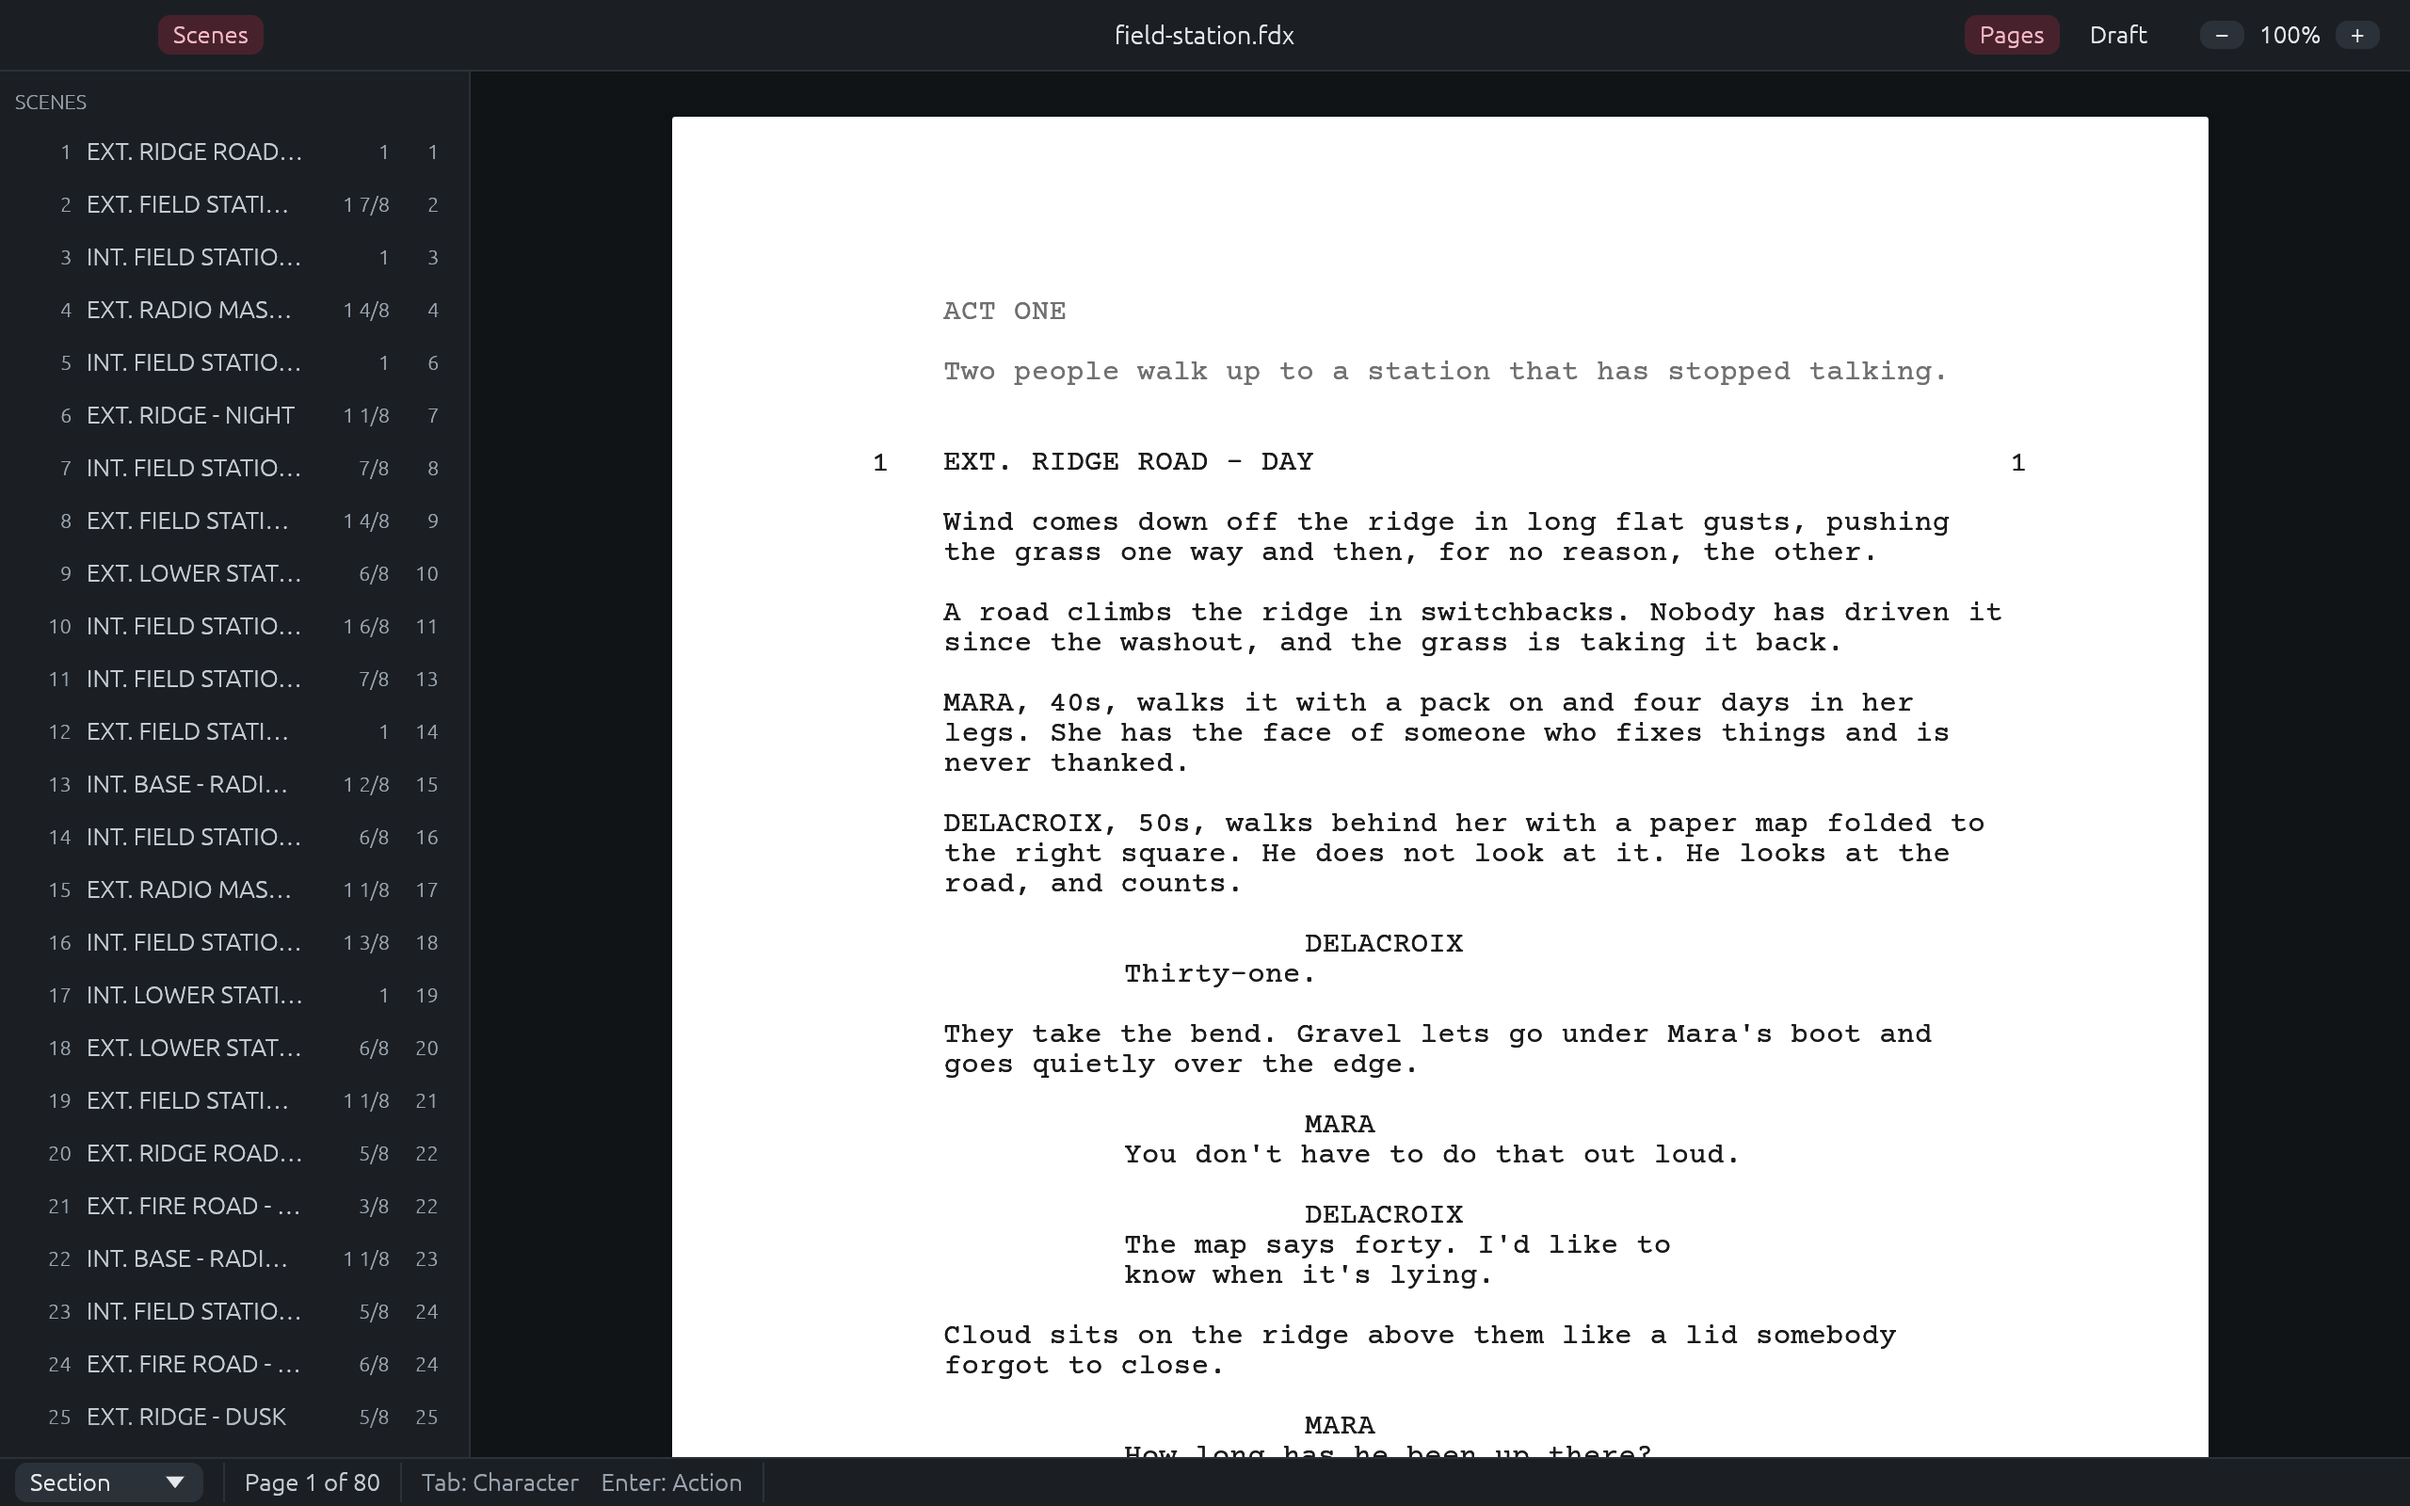
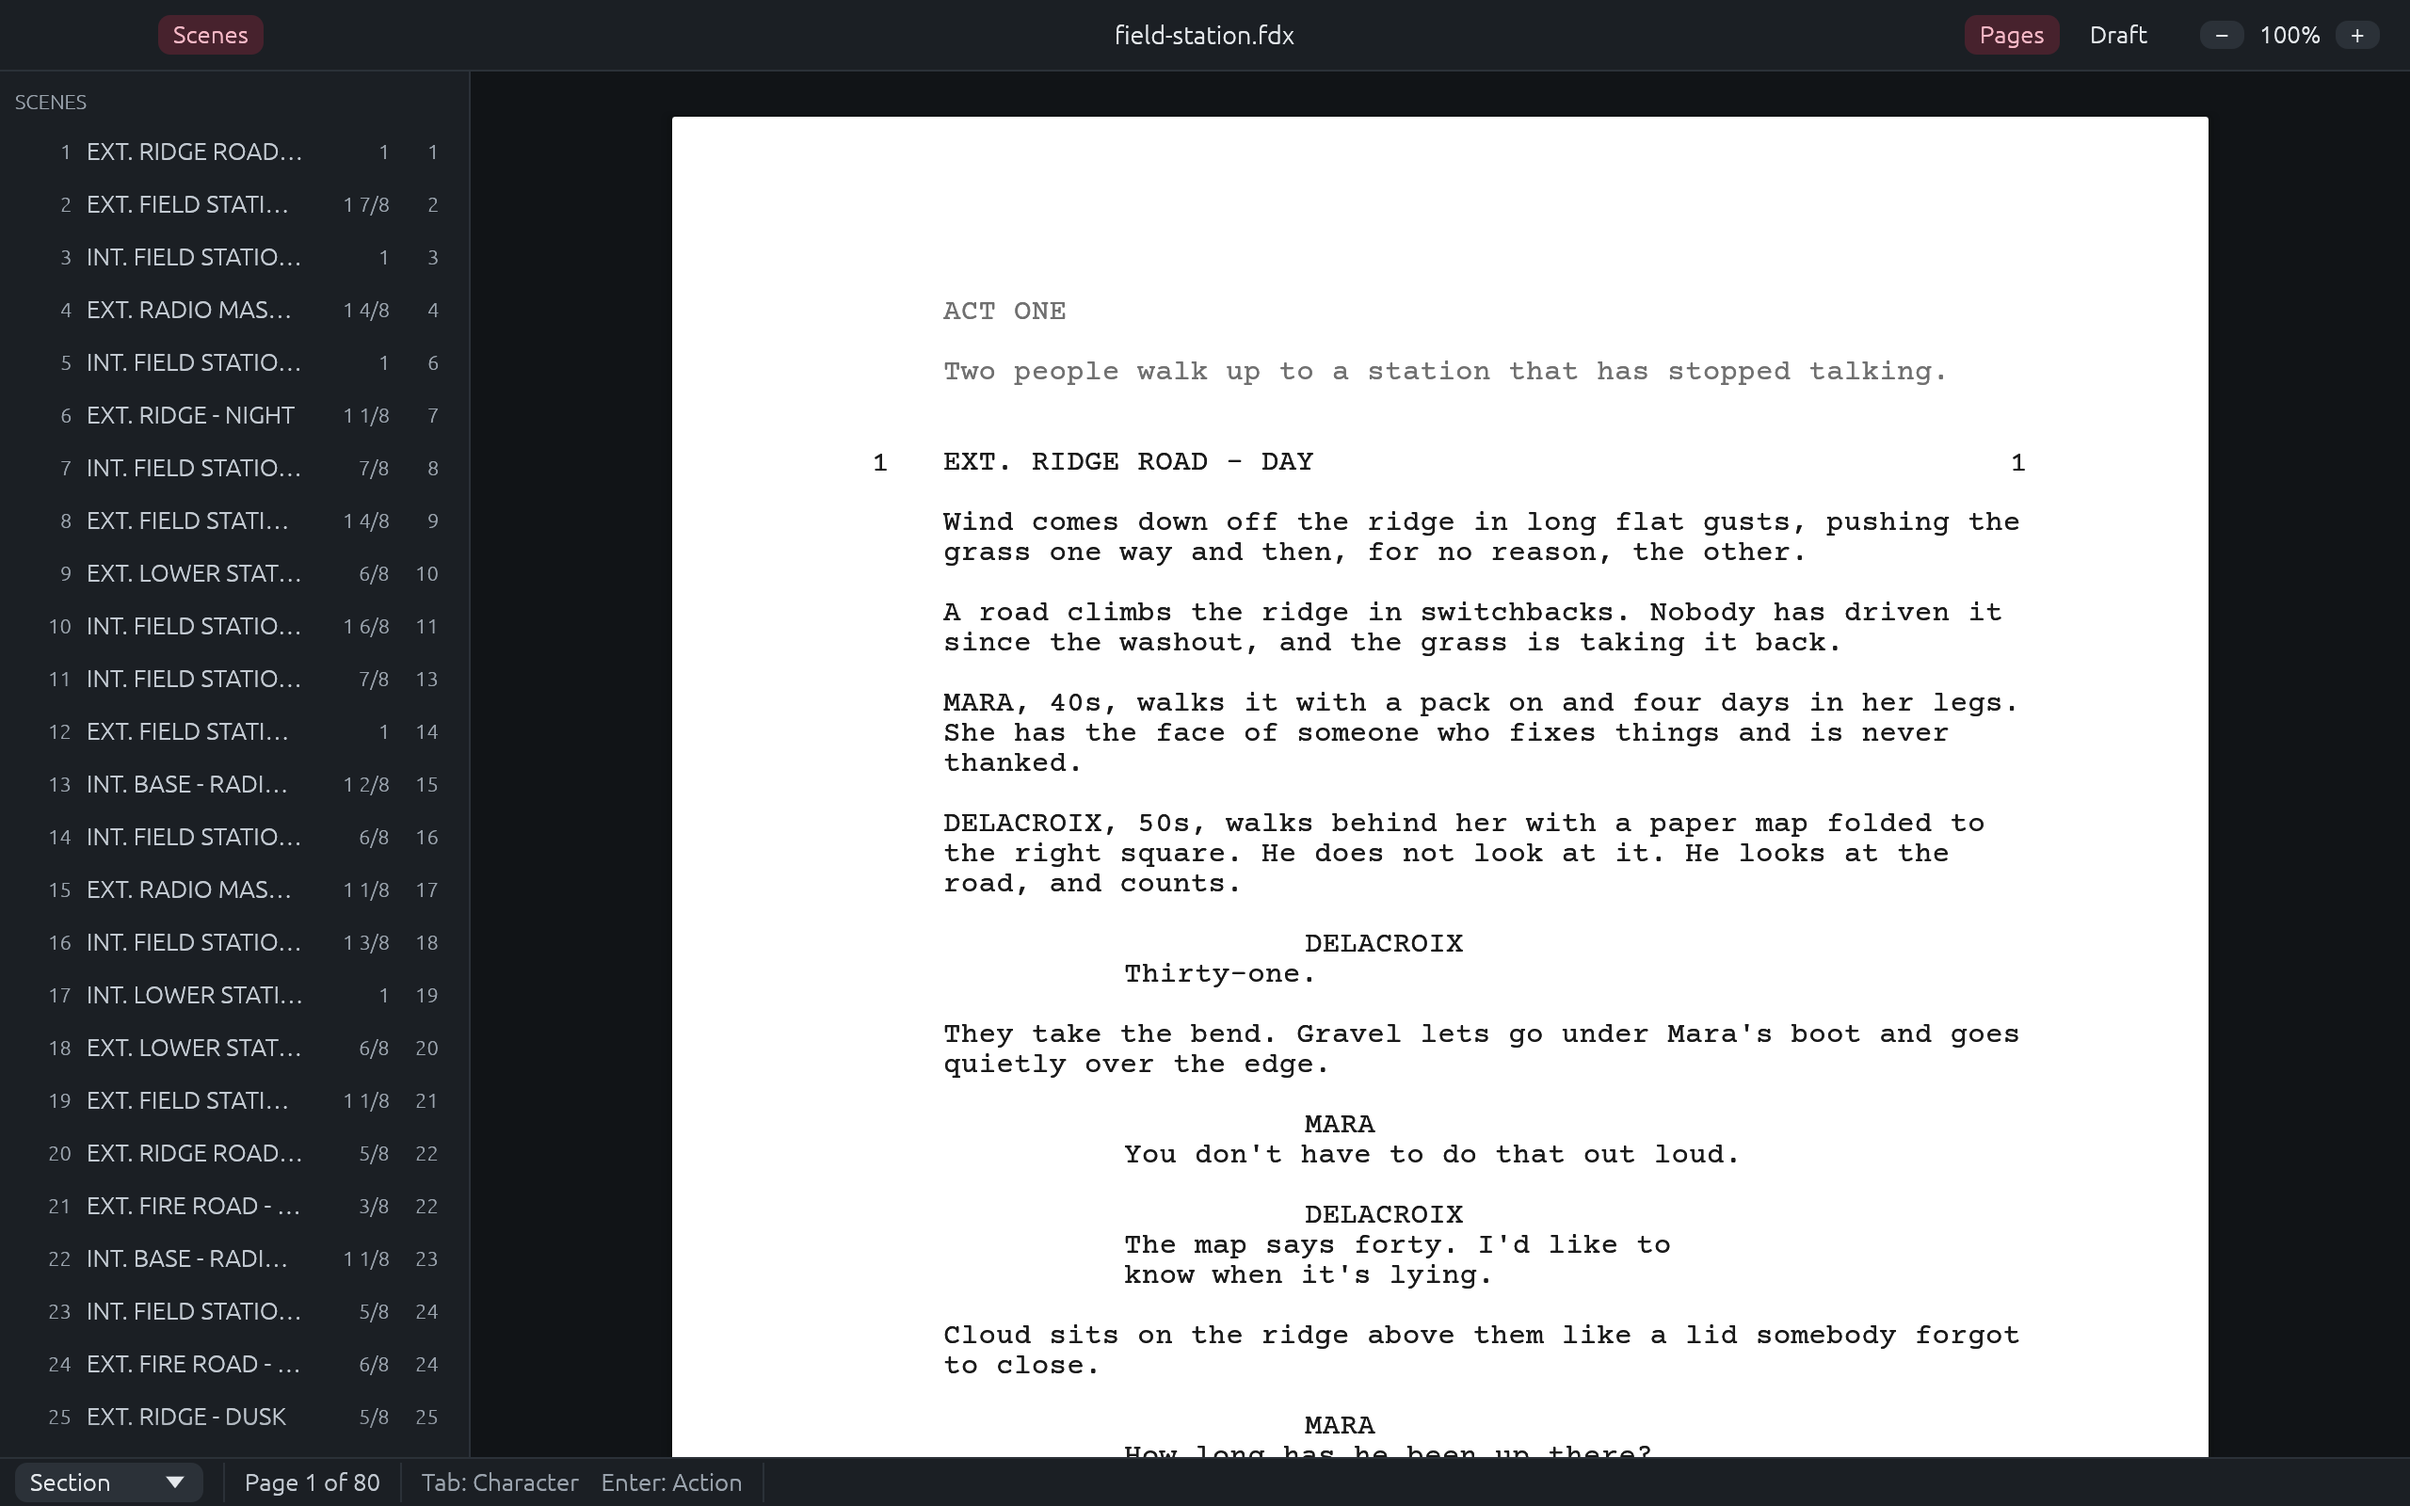
Release 0.8.0: the page as it prints, and safer updates
Version 0.8.0: the editor draws its own text (lines break where they
print, styles without their marks, capitals by display, double-spaced
dialogue on screen), Page view carries a split speech on to the next
sheet, and updates are checked more strictly. The changelog gets its
0.8.0 heading and the notes are written. The README and site pictures
were retaken offscreen and show the new editor.

diff --git a/docs/releases/0.8.0.md b/docs/releases/0.8.0.md
@@ -1,0 +1,48 @@
+# Method Storyteller 0.8.0
+
+The editor shows the page as it prints: lines break where they print, styles show without
+their marks, and a speech that runs past the page carries on to the next sheet.
+
+## The page as it prints
+
+- **Lines break where they print.** The editor now lays out the script itself, with the same
+  rules as the printed page, so what you see on screen is what the page holds.
+- **Styles without the marks.** Bold, italic and underline show as styles, with no asterisks or
+  underscores around them. **View > Show Formatting Marks** brings the marks back, faint, for
+  anyone who types them by hand. A `*` or `_` you type stays that character.
+- **Page view carries a split speech on.** When the page breaks inside a speech or a long
+  paragraph, the rest starts at the top of the next sheet, with (MORE) and the continued name
+  shown faint where they print.
+- **Capitals by display.** In a multi-camera script, action keeps the casing you type and is
+  shown and printed in capitals. Turn the setting off and your casing is still there.
+- **Double-spaced dialogue looks double-spaced** on screen, as it prints.
+
+## Safer updates
+
+- **An update must be signed as this app is.** On a Mac, a downloaded update is installed only
+  if its code signature matches the copy you are running.
+- **No going backwards.** A version older than one the app has already accepted is refused.
+- **Updates that ask for an administrator's password** now leave the app owned by the system,
+  as it was installed.
+- **Damaged files are refused cleanly.** Every kind of file the app opens was tried in
+  thousands of damaged forms; each one opens or says why.
+
+## Fixed
+
+- **A note on the title page** is saved to `.fdx` as a note, so it no longer prints in other
+  apps, and it comes back when the file is opened again.
+
+## For developers
+
+- The control channel (`--control`) asks for the token each launch prints.
+
+## Not there yet
+
+- Pages locked in an `.fdx` file are kept and saved back, but print as unlocked until their
+  positions are read reliably.
+- Scene CONTINUED at page breaks is not offered yet.
+- On Windows and Linux, download each new version from the website.
+
+## Who helped
+
+- Method Production Suite Team and the Method Storyteller contributors.

diff --git a/CHANGELOG.md b/CHANGELOG.md
@@ -5,10 +5,31 @@ for its own version in Help > What's New, once after an update.
 
 ## Unreleased
 
+## 0.8.0
+
+### Changed
+
+- The editor lays out and draws the script itself. Lines on screen break where they break on
+  the printed page, and double-spaced dialogue is double-spaced on screen too.
+- Bold, italic and underline show as styles, without the asterisks and underscores around them.
+  View > Show Formatting Marks shows the marks again, faint. A `*` or `_` you type is kept as
+  that character.
+- In a script whose settings print a type in capitals (a multi-camera script's action), the text
+  keeps the casing you type and is shown and printed in capitals. Saving it as Fountain, which
+  cannot record that setting, writes it in capitals.
+- Page view: a paragraph or speech that the page breaks inside now carries on at the top of the
+  next sheet, with (MORE) and the continued name shown faint where they print. Draft view marks
+  the page break between its lines.
+- Updates on a Mac are checked more strictly: an update is installed only if its code signature
+  matches this copy of the app, a version older than one already accepted is refused, and an
+  update installed with an administrator's password leaves the app owned by the system as before.
+
 ### Fixed
 
 - A note on the title page (`[[like this]]`) is saved to `.fdx` as a note, so it no longer
   prints in other apps, and it comes back when the file is opened again.
+- A damaged `.mstory`, `.fadein` or `.highland` file is refused cleanly on every system.
+- For developers: the control channel (`--control`) asks for the token each launch prints.
 
 ## 0.7.0
 

diff --git a/docs/ROADMAP.md b/docs/ROADMAP.md
@@ -208,13 +208,13 @@ says otherwise.
   bookmarks, Show Outline, autocomplete lists, `.highland` import and the faster editor. The
   release workflow runs no tests, so its Windows tests came from the full build on the same
   commit (all three systems green). Nothing waiting.
-- **The next release (0.8.0):** on main since 0.7.0: the editor draws its own text (markup
-  hidden, capitals by display, lines wrap where they print), Page view continuing a split speech,
-  the control channel token, the hardened updater (code signature check before a Mac update is
-  swapped in, and no offer below the newest accepted), and signing from the protected `release`
-  environment (rehearsal green, 2026-11-20). **Held until the updater's administrator step has
-  been run once by hand against a real signed bundle** (MReview's condition; it needs the owner's
-  password and screen, and MOrg is arranging it). Then a go-ahead to tag.
+- **The next release, 0.8.0: being prepared** (MOrg, 2026-11-21, after the owner's hand test
+  passed and MReview lifted the hold on method-update fa7d430). Called 0.8.0, not 0.7.1, because
+  it adds features: the editor draws its own text (lines break where they print, styles without
+  their marks, capitals by display), Page view carries a split speech on, and stricter updates
+  (code signature, no going backwards, a system-owned app after an administrator install). Notes
+  in `docs/releases/0.8.0.md`. Next: the release-prep PR (it changes `Cargo.lock`, so MReview
+  merges it), the rehearsal on that commit, then the tag question to the owner through MOrg.
 
 ### Deferred (the owner, 2026-10-20)
 
